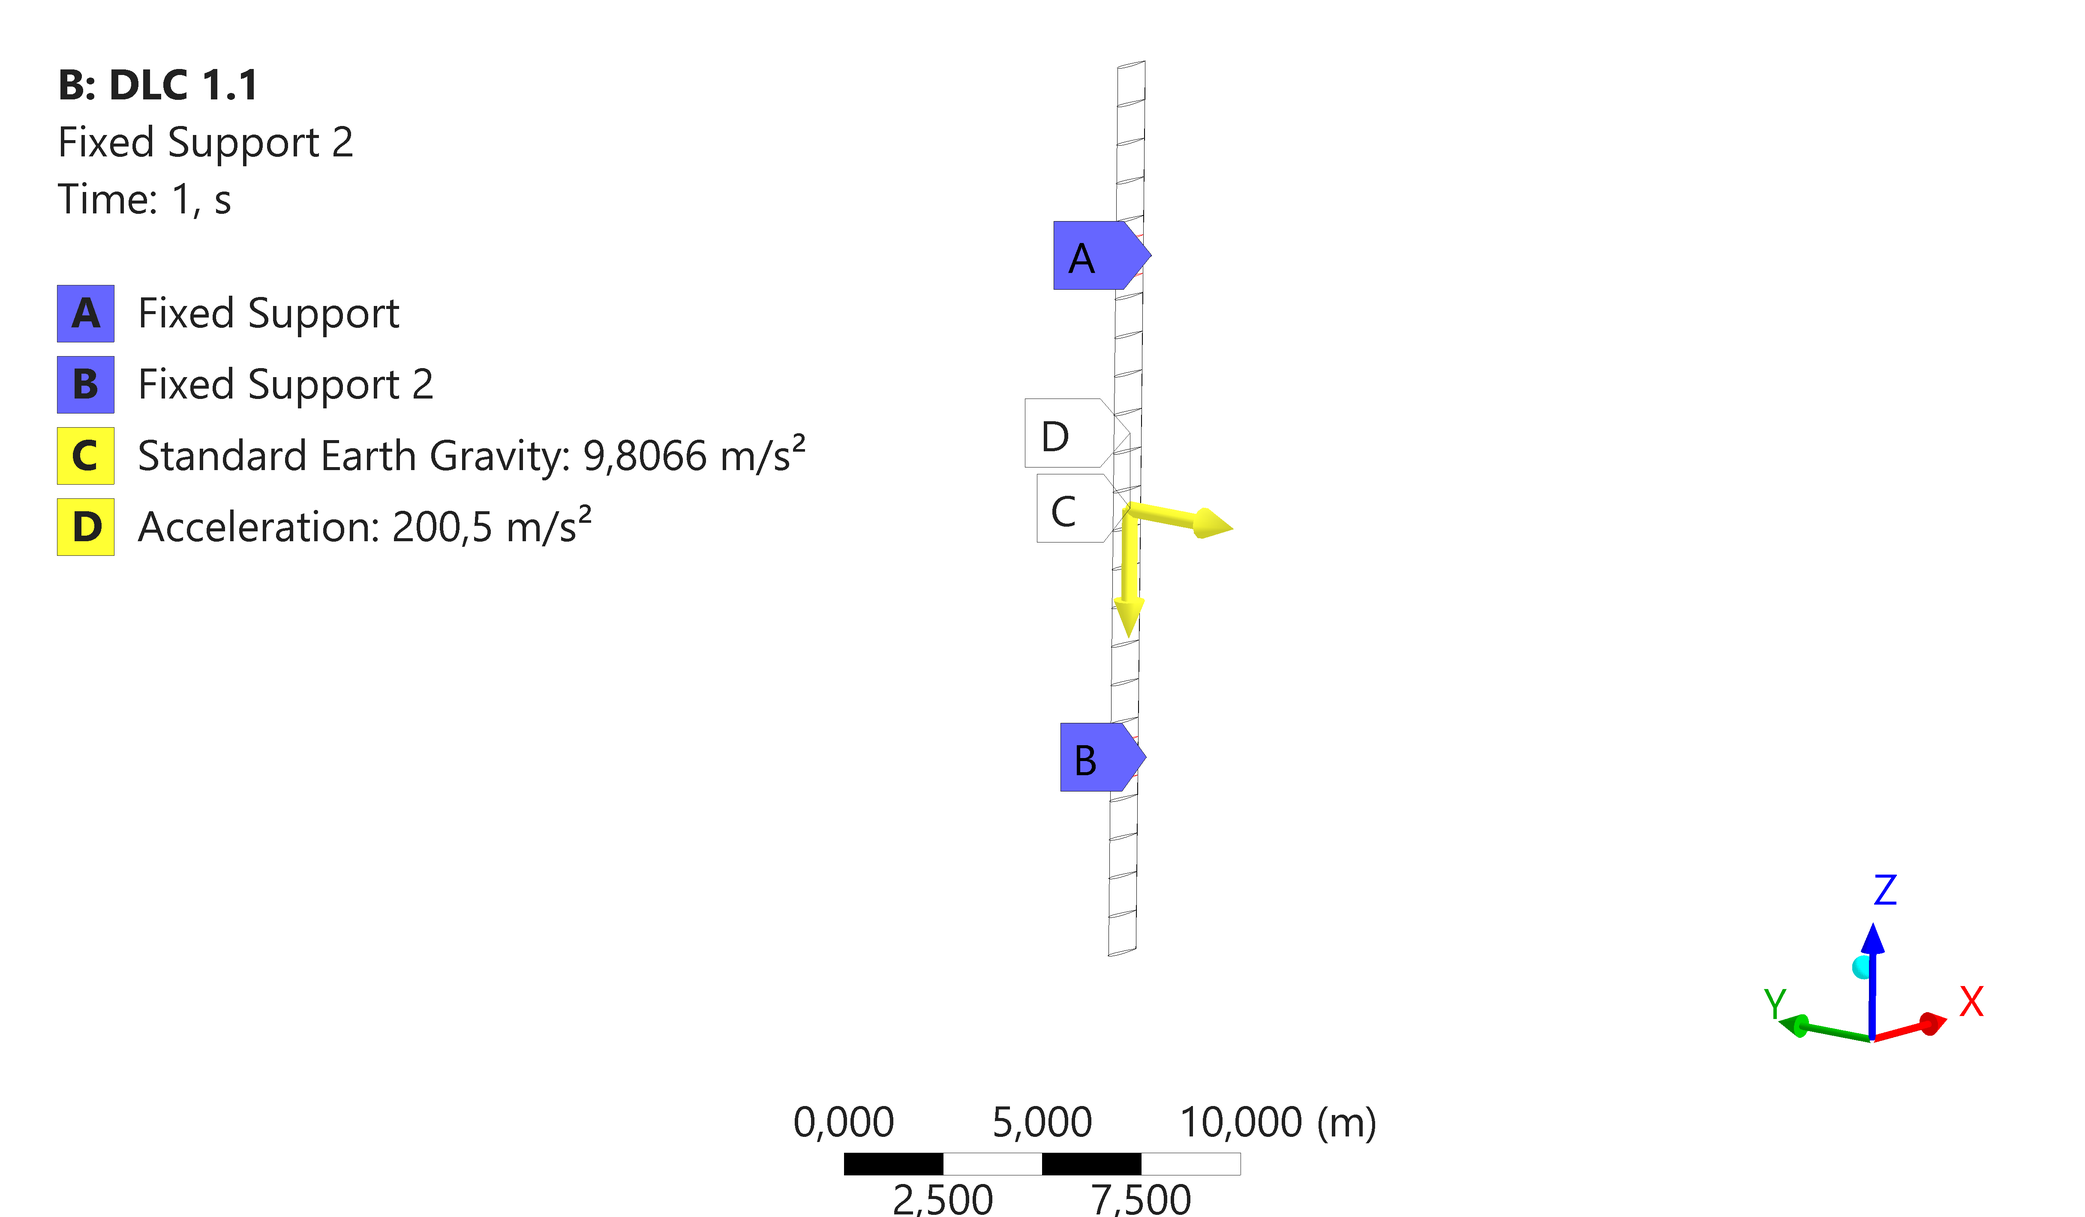
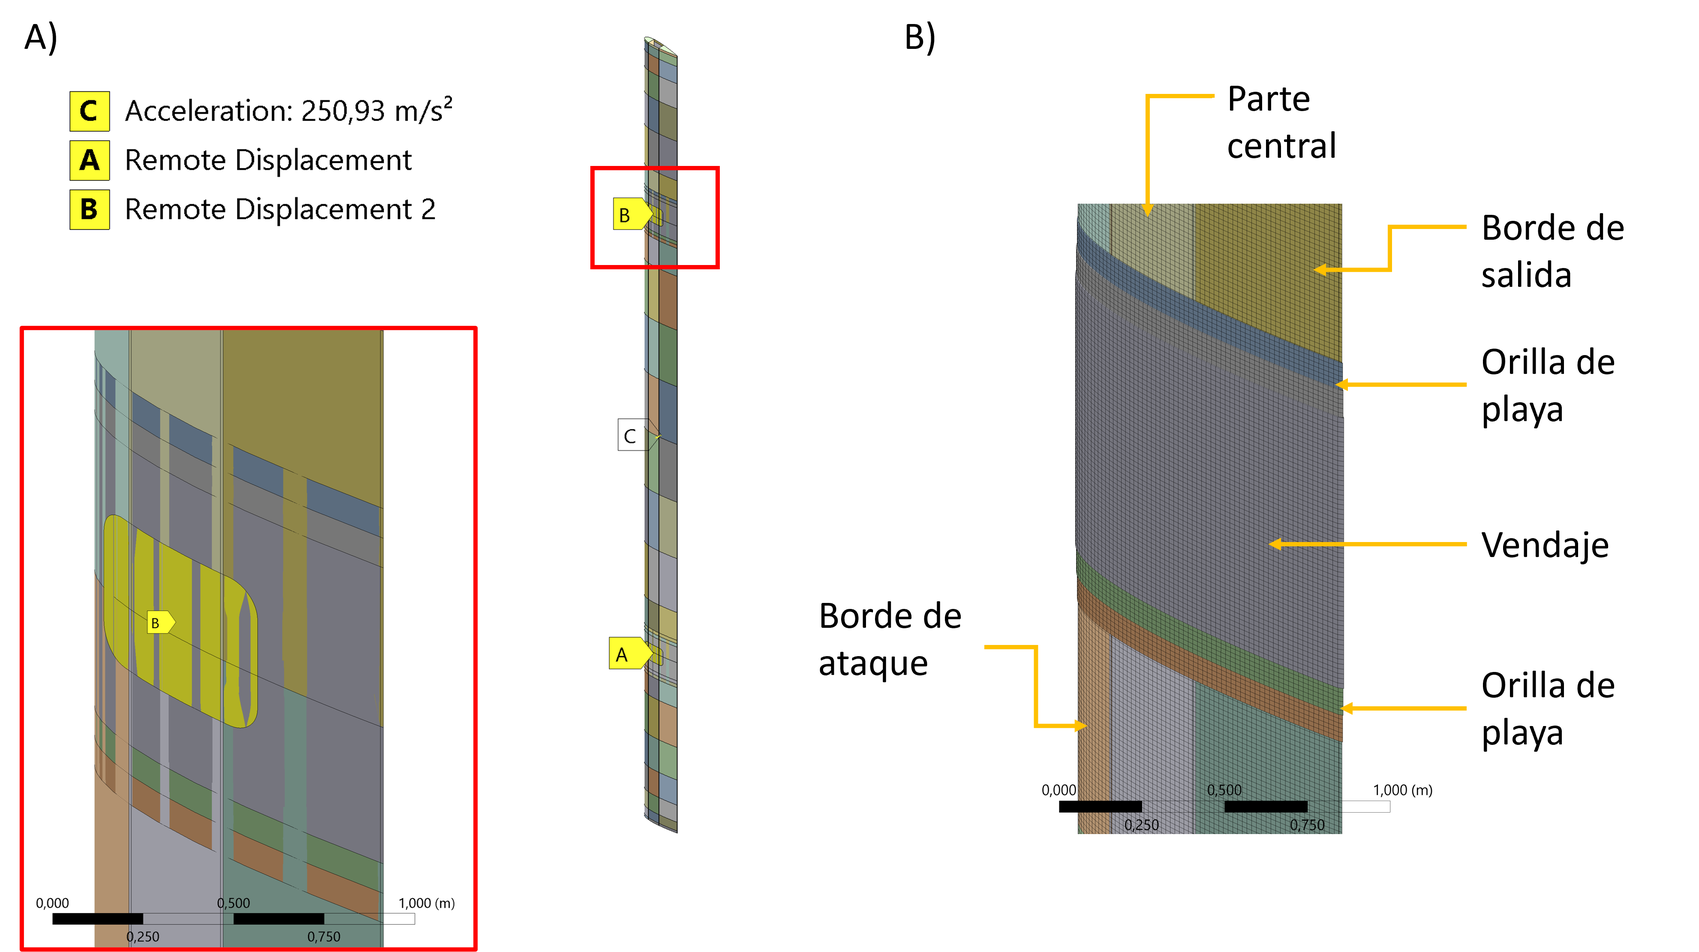
Figuras de condiciones de borde+malla y de sección característica; espesores en tabla
Reemplaza la figura de condiciones de borde por una que muestra además la malla
y las partes del laminado, y retira la figura de fuerzas aerodinámicas, cuyo
contenido queda en texto. Sustituye el plano de la unión por la figura de la
sección característica de la pala, que ilustra las almas, la parte central, los
carenados y el vendaje, y la ubica en la metodología junto a la tabla de
espesores.

Consolida todos los espesores en la Tabla de la sección característica, con las
partes de la sección y los tres tramos del vendaje de refuerzo. Mantiene en el
texto el vendaje de 1 m con los largos y espesores de la orilla de playa, y las
dimensiones 500x600 mm de la placa de apoyo.

Mueve la aclaración de que el contorno es el laminado del manto y de que los
concentradores caen en la terminación del vendaje desde los pies de figura a los
párrafos de análisis, dejando los pies descriptivos.

diff --git a/4 Resultados.tex b/4 Resultados.tex
@@ -735,35 +735,20 @@ La malla definitiva, de $18$~mm de tamaño máximo de cara, comprende $219\,169$
 
 \subsection{Modelo de elementos finitos}
 
-La Figura~\ref{fig:fem_cb} muestra el modelo con las condiciones de borde que define la Sección~\ref{sec:condiciones_borde}, esto es, los desplazamientos remotos que restringen las dos conexiones con los brazos y la aceleración centrífuga aplicada radialmente sobre todos los elementos de la pala.
+La Figura~\ref{fig:fem_cb} presenta el modelo de elementos finitos. El panel (a) muestra las condiciones de borde que define la Sección~\ref{sec:condiciones_borde}, los dos desplazamientos remotos que restringen las conexiones con los brazos, marcados A y B, y la aceleración centrífuga aplicada radialmente sobre toda la masa de la pala, marcada C. El panel (b) amplía la zona de una conexión, donde se aprecian la malla de cascarón y las distintas partes del laminado, el manto, el ala del larguero y las bandas del vendaje de refuerzo con sus escalones.
 
 \begin{figure}[H]
     \centering
     \includegraphics[width=\textwidth]{Figuras/Figuras Resultados/fem_cb.png}
-    \caption{Condiciones de borde del modelo FEM, desplazamientos remotos deformables en los dos puntos de conexión con los struts y aceleración centrífuga radial.}
+    \caption[Modelo de elementos finitos de la pala.]{Modelo de elementos finitos de la pala. (a) Condiciones de borde, desplazamientos remotos deformables en las dos conexiones con los brazos (A y B) y aceleración centrífuga radial (C). (b) Detalle de la malla de cascarón y de las partes del laminado en la zona de una conexión.}
     \label{fig:fem_cb}
 \end{figure}
 
 La aceleración centrífuga corresponde a la velocidad máxima de rotación $\Omega = 42$~rpm ($4{,}398$~rad/s) que, evaluada en la Ec.~\ref{eq:centrifugal_limit} con $R = 10{,}365$~m, resulta en $a_c = 200{,}5$~m/s$^2$ ($20{,}4\,g$), uniforme en toda la envergadura. Esa magnitud sitúa en su justa dimensión la consigna de $42$~rpm. Como la aceleración centrífuga es inversamente proporcional al radio (Ec.~\ref{eq:centrifugal_limit}), el menor radio del rotor en estudio implica una solicitación centrífuga un $29\%$ superior a la de la T1-turbine en su límite de diseño~\parencite{Mollerstrom2017}, pese a que ambas máquinas comparten la misma velocidad de punta. La admisibilidad de la consigna no se sustenta por tanto en la comparación con la literatura, sino en la verificación estructural que se desarrolla en esta sección.
 
-La Figura~\ref{fig:fem_fuerzas} muestra las fuerzas aerodinámicas de diseño $F_d$ aplicadas como cargas remotas en los centroides de las $21$ estaciones, conservando el signo que entrega la simulación (Sección~\ref{sec:anexo_f}). Ese signo es el que obliga a resolver cada caso de carga en sus dos sentidos. En el instante que maximiza la envolvente direccional, la componente normal apunta hacia el eje del rotor y se opone por tanto a la flexión que induce la fuerza centrífuga, de modo que el mayor extremo aerodinámico no coincide con el estado combinado más desfavorable. El segundo perfil de cada caso, tomado del extremo de $M_y$ en el sentido contrario, sí acumula ambas contribuciones, y es la comparación entre ambos la que determina el caso gobernante (Sección~\ref{sec:comparacion_dlc}).
+Las fuerzas aerodinámicas de diseño $F_d$ se aplican como cargas remotas en los centroides de las $21$ estaciones, conservando el signo que entrega la simulación (Sección~\ref{sec:anexo_f}). Ese signo es el que obliga a resolver cada caso de carga en sus dos sentidos. En el instante que maximiza la envolvente direccional, la componente normal apunta hacia el eje del rotor y se opone por tanto a la flexión que induce la fuerza centrífuga, de modo que el mayor extremo aerodinámico no coincide con el estado combinado más desfavorable. El segundo perfil de cada caso, tomado del extremo de $M_y$ en el sentido contrario, sí acumula ambas contribuciones, y es la comparación entre ambos la que determina el caso gobernante (Sección~\ref{sec:comparacion_dlc}).
 
-\begin{figure}[H]
-    \centering
-    \includegraphics[width=\textwidth]{Figuras/Figuras Resultados/fem_fuerzas.png}
-    \caption{Fuerzas aerodinámicas de diseño aplicadas como cargas remotas en las 21 estaciones de la pala.}
-    \label{fig:fem_fuerzas}
-\end{figure}
-
-La Figura~\ref{fig:fem_detalle_union} presenta el detalle constructivo de la unión entre la pala y el brazo de soporte tal como queda resuelta en el modelo. Se distinguen en ella sus tres elementos, el vendaje de refuerzo de la zona de conexión, la superficie de apoyo sobre la que se impone la restricción de cada conexión (Sección~\ref{sec:condiciones_borde}) y el larguero de cajón, formado por las dos almas de $5{,}2$~mm y por el engrosamiento del manto entre ellas (Sección~\ref{sec:seccion_caracteristica}).
-
-
-\begin{figure}[H]
-    \centering
-    \includegraphics[trim=0cm 3cm 0cm 3cm, clip, width=0.85\textwidth]{Figuras/Figuras Resultados/PLANO.pdf}
-    \caption{Detalle de la unión pala-brazo modelada en el FEM.}
-    \label{fig:fem_detalle_union}
-\end{figure}
+La unión entre la pala y el brazo queda resuelta en el modelo mediante tres elementos, el vendaje de refuerzo de la zona de conexión (Sección~\ref{sec:vendaje}), la superficie de $500 \times 600$~mm sobre la que se impone el desplazamiento remoto de cada conexión (Sección~\ref{sec:condiciones_borde}) y el larguero de cajón, formado por las dos almas de $5{,}2$~mm y por el engrosamiento del manto entre ellas (Sección~\ref{sec:seccion_caracteristica}), visibles todos en el detalle de la malla de la Figura~\ref{fig:fem_cb}(b).
 
 \subsection{Resultados del análisis estructural}
 
@@ -771,12 +756,12 @@ Se reportan primero las tensiones y el desplazamiento bajo las cargas del DLC 1.
 
 \subsubsection{Tensiones principales}
 
-La Figura~\ref{fig:fem_max11} presenta la distribución de tensión principal máxima sobre las dos caras de la pala, el intradós y el extradós, con el detalle ampliado de las dos conexiones con los brazos. El valor máximo del manto, $\sigma_{1,\max} = 189{,}40$~MPa, se localiza en la conexión con el brazo superior ($z = 18$~m), unos centímetros más allá del punto en que termina el vendaje de refuerzo. Las dos conexiones se solicitan de forma prácticamente simétrica, con $189{,}40$~MPa en la superior y $178{,}69$~MPa en la inferior, y en ambas el máximo aparece sobre la línea en que el refuerzo termina y el manto queda cargando solo.
+La Figura~\ref{fig:fem_max11} presenta la distribución de tensión principal máxima sobre las dos caras de la pala, el intradós y el extradós, con el detalle ampliado de las dos conexiones con los brazos. El valor máximo del manto, $\sigma_{1,\max} = 189{,}40$~MPa, se localiza en la conexión con el brazo superior ($z = 18$~m), unos centímetros más allá del punto en que termina el vendaje de refuerzo. Las dos conexiones se solicitan de forma prácticamente simétrica, con $189{,}40$~MPa en la superior y $178{,}69$~MPa en la inferior, y en ambas el máximo aparece sobre la línea en que el refuerzo termina y el manto queda cargando solo. El contorno de la figura corresponde al laminado del manto, no al del vendaje de refuerzo, y los concentradores de tensión se ubican precisamente sobre las líneas en que el vendaje termina.
 
 \begin{figure}[H]
     \centering
     \includegraphics[width=\textwidth]{Figuras/Figuras Resultados/fem_max11.png}
-    \caption[Distribución de tensión principal máxima, DLC 1.1.]{Distribución de tensión principal máxima del DLC 1.1 sobre el intradós y el extradós de la pala, en MPa. El contorno corresponde al laminado del manto, no al del vendaje de refuerzo, y los concentradores de tensión se ubican precisamente sobre las líneas en que el vendaje termina. Los detalles A y B amplían las dos conexiones con los brazos.}
+    \caption[Distribución de tensión principal máxima, DLC 1.1.]{Distribución de tensión principal máxima del DLC 1.1 sobre el intradós y el extradós de la pala, en MPa. Los detalles A y B amplían las dos conexiones con los brazos.}
     \label{fig:fem_max11}
 \end{figure}
 
@@ -784,12 +769,12 @@ Conviene precisar el origen de ese valor, porque no corresponde a un concentrado
 
 El análisis de convergencia descarta que ese valor provenga de la discretización, ya que su variación en el último refinamiento es del $3{,}63\%$, por debajo del criterio adoptado. Lo que no permite descartar es su sensibilidad al detalle constructivo de la unión, representada aquí mediante una superficie de apoyo y un vendaje ante la falta de un plano de la conexión (Sección~\ref{sec:condiciones_borde}), ya que un apoyo de mayor superficie o un refuerzo más extenso redistribuirían la tensión en esa zona.
 
-La Figura~\ref{fig:fem_min11} muestra la tensión principal mínima, $\sigma_{3,\min} = -177{,}95$~MPa, correspondiente a compresión. El máximo de compresión se localiza en la misma terminación del refuerzo que el de tracción, pero sobre la cara opuesta de la pala, como corresponde a la flexión que inducen conjuntamente las fuerzas aerodinámicas y la fuerza centrífuga. El sentido relativo en que ambas actúan depende del instante del que proviene el perfil de carga, y es por eso que cada caso se resuelve en sus dos sentidos (Sección~\ref{sec:comparacion_dlc}).
+La Figura~\ref{fig:fem_min11} muestra la tensión principal mínima, $\sigma_{3,\min} = -177{,}95$~MPa, correspondiente a compresión. El contorno corresponde igualmente al laminado del manto, y el máximo de compresión se localiza en la misma terminación del refuerzo que el de tracción, pero sobre la cara opuesta de la pala, como corresponde a la flexión que inducen conjuntamente las fuerzas aerodinámicas y la fuerza centrífuga. El sentido relativo en que ambas actúan depende del instante del que proviene el perfil de carga, y es por eso que cada caso se resuelve en sus dos sentidos (Sección~\ref{sec:comparacion_dlc}).
 
 \begin{figure}[H]
     \centering
     \includegraphics[width=\textwidth]{Figuras/Figuras Resultados/fem_min11.png}
-    \caption[Distribución de tensión principal mínima, DLC 1.1.]{Distribución de tensión principal mínima del DLC 1.1 sobre el intradós y el extradós de la pala, en MPa. El contorno corresponde al laminado del manto, no al del vendaje de refuerzo, y los concentradores de compresión se ubican sobre las líneas en que el vendaje termina, en la cara opuesta a la del máximo de tracción. Los detalles A y B amplían las dos conexiones.}
+    \caption[Distribución de tensión principal mínima, DLC 1.1.]{Distribución de tensión principal mínima del DLC 1.1 sobre el intradós y el extradós de la pala, en MPa. Los detalles A y B amplían las dos conexiones.}
     \label{fig:fem_min11}
 \end{figure}
 

diff --git a/3 Metodología.tex b/3 Metodología.tex
@@ -940,21 +940,34 @@ Las propiedades disponibles del laminado son las de la Tabla~\ref{tab:material_p
 \subsubsection{Sección característica}
 \label{sec:seccion_caracteristica}
 
-La definición del laminado proviene de un plano de sección transversal entregado por el fabricante de la turbina, identificado en él como sección característica de la pala. La sección corresponde a un larguero de cajón, formado por dos almas y por el engrosamiento del manto entre ellas, con carenados de menor espesor hacia el borde de ataque y hacia el de fuga. La Tabla~\ref{tab:seccion_caracteristica} reúne sus dimensiones.
+La definición del laminado proviene de un plano de sección transversal entregado por el fabricante de la turbina, identificado en él como sección característica de la pala. La sección corresponde a un larguero de cajón, formado por dos almas y por el engrosamiento del manto entre ellas, con carenados de menor espesor hacia el borde de ataque y hacia el de fuga, según ilustra la Figura~\ref{fig:seccion_caracteristica}. La Tabla~\ref{tab:seccion_caracteristica} reúne los espesores de todas sus partes y los del vendaje de refuerzo de las conexiones, que se describe más adelante (Sección~\ref{sec:vendaje}).
+
+\begin{figure}[H]
+    \centering
+    \includegraphics[width=0.9\textwidth]{Figuras/Figuras Metodología/seccion_caracteristica.png}
+    \caption[Sección característica de la pala.]{Sección característica de la pala con sus partes, el larguero de cajón de dos almas, la parte central engrosada entre ellas, los carenados de borde de ataque y de fuga, y el vendaje de refuerzo del contorno. El espesor de cada parte se representa en el modelo de cascarón.}
+    \label{fig:seccion_caracteristica}
+\end{figure}
 
 \begin{table}[H]
     \centering
-    \caption{Definición de la sección característica de la pala, según el plano entregado por el fabricante de la turbina.}
+    \caption{Espesores de la sección característica de la pala y del vendaje de refuerzo, según el plano entregado por el fabricante de la turbina.}
     \label{tab:seccion_caracteristica}
     \begin{tabular}{lcc}
         \hline
-        \textbf{Elemento} & \textbf{Posición desde el borde de ataque} & \textbf{Espesor}\\
+        \textbf{Elemento} & \textbf{Posición o longitud} & \textbf{Espesor}\\
         \hline
+        \multicolumn{3}{l}{\textit{Sección (posición en cuerda desde el borde de ataque)}}\\
         Carenado de borde de ataque & $0$ a $220$~mm & $5{,}2$~mm\\
-        Ala del larguero & $220$ a $560$~mm & $11{,}4$~mm\\
+        Parte central, ala del larguero & $220$ a $560$~mm & $11{,}4$~mm\\
         Carenado de borde de fuga & $560$~mm al borde de fuga & $5{,}2$~mm\\
         Alma anterior & $220$~mm & $5{,}2$~mm\\
         Alma posterior & $560$~mm & $5{,}2$~mm\\
+        \hline
+        \multicolumn{3}{l}{\textit{Vendaje de refuerzo (longitud en envergadura, por conexión)}}\\
+        Tramo de espesor pleno & $1\,000$~mm & $8{,}0$~mm\\
+        Primer escalón, cada extremo & $100$~mm & $5{,}3$~mm\\
+        Segundo escalón, cada extremo & $100$~mm & $2{,}6$~mm\\
         \hline
         \multicolumn{3}{l}{\footnotesize El ala del larguero se prolonga algunos centímetros más allá de cada alma.}
     \end{tabular}
@@ -979,7 +992,7 @@ La concordancia no demuestra que el laminado sea constante a lo largo de la enve
 \subsubsection{Refuerzo de la zona de conexión}
 \label{sec:vendaje}
 
-El modelo incorpora en cada conexión un vendaje de refuerzo dispuesto concéntricamente alrededor del perímetro de la sección, que reproduce el engrosamiento local del laminado con que se resuelve la introducción de carga en una unión de este tipo. Su tramo de espesor pleno mide $8$~mm y $1\,000$~mm de longitud, y en cada extremo la transición hacia el manto se resuelve en dos escalones de $100$~mm, de $5{,}3$ y $2{,}6$~mm de espesor, con lo que el refuerzo alcanza $1\,400$~mm de longitud total. La transición reparte así los $8$~mm de espesor a lo largo de $200$~mm. Se modela escalonada y no continua porque el laminado real tampoco lo es, ya que el espesor desciende terminando capas sucesivas.
+El modelo incorpora en cada conexión un vendaje de refuerzo dispuesto concéntricamente alrededor del perímetro de la sección, que reproduce el engrosamiento local del laminado con que se resuelve la introducción de carga en una unión de este tipo. Su tramo de espesor pleno mide $8$~mm y $1\,000$~mm de longitud, y en cada extremo la transición hacia el manto se resuelve en dos escalones de $100$~mm, de $5{,}3$ y $2{,}6$~mm de espesor, con lo que el refuerzo alcanza $1\,400$~mm de longitud total (Tabla~\ref{tab:seccion_caracteristica}). La transición reparte así los $8$~mm de espesor a lo largo de $200$~mm. Se modela escalonada y no continua porque el laminado real tampoco lo es, ya que el espesor desciende terminando capas sucesivas.
 
 El vendaje se representa como un cuerpo independiente del manto, con el que comparte los nodos de su superficie de contacto. Esa separación permite leer sus tensiones por separado, lo que una representación del conjunto como un espesor único no permitiría.
 

diff --git a/1 Introduccion.tex b/1 Introduccion.tex
@@ -41,4 +41,4 @@ Las condiciones ambientales se definen a partir de datos del explorador eólico~
 
 \section{Estructura del documento}
 
-El presente documento se organiza en cinco capítulos. El Capítulo 2 presenta los antecedentes generales: el estado del arte de la energía eólica offshore, las configuraciones de aerogeneradores de eje vertical, el marco normativo IEC 61400-1, la caracterización del recurso eólico, los métodos de simulación aerodinámica basados en vórtices libres, el cálculo de polares aerodinámicas y el análisis estructural por elementos finitos. El Capítulo 3 describe la metodología desarrollada, detallando la caracterización del recurso eólico, el cálculo de cargas aerodinámicas mediante el software utilizado y la configuración del modelo estructural en Ansys. El Capítulo 4 presenta los resultados obtenidos: la caracterización del recurso eólico y de las propiedades del aire, el análisis del rango operacional de Reynolds, la caracterización aerodinámica, el TSR óptimo, la curva de potencia de la turbina, las cargas aerodinámicas para los tres casos de diseño (DLC 1.1 para ULS con NTM, DLC 1.2 para fatiga y DLC 1.3 para ULS con ETM), la comparación de fuerzas por estación, la verificación estructural por elementos finitos (incluyendo convergencia de malla, tensiones principales y deformaciones para ambos DLC de estado límite último), y los resúmenes de la verificación a resistencia última, estabilidad y fatiga conforme a IEC 61400-1. El Capítulo 5 presenta las conclusiones del trabajo en relación con los objetivos planteados, las limitaciones del alcance y las líneas de trabajo futuro. Los anexos recogen el material que permite reproducir el trabajo. El Anexo~\ref{anexo:fuerzas} entrega la solicitación de entrada completa de las tres corridas del modelo estructural, con las aceleraciones inerciales y las fuerzas por estación. Los Anexos~\ref{anexo:dlc11},~\ref{anexo:dlc13} y~\ref{anexo:dlc12} reproducen el código que determina las cargas de diseño de cada caso, y el Anexo~\ref{anexo:qblade} los archivos de definición con que se resolvieron las simulaciones aerodinámicas.
+El presente documento se organiza en cinco capítulos. El Capítulo 2 presenta los antecedentes generales: el estado del arte de la energía eólica offshore, las configuraciones de aerogeneradores de eje vertical, el marco normativo IEC 61400-1, la caracterización del recurso eólico, los métodos de simulación aerodinámica basados en vórtices libres, el cálculo de polares aerodinámicas y el análisis estructural por elementos finitos. El Capítulo 3 describe la metodología desarrollada, detallando la caracterización del recurso eólico, el cálculo de cargas aerodinámicas mediante el software utilizado y la configuración del modelo estructural en Ansys. El Capítulo 4 presenta los resultados obtenidos: la caracterización del recurso eólico y de las propiedades del aire, el análisis del rango operacional de Reynolds, la caracterización aerodinámica, el TSR óptimo, la curva de potencia de la turbina, las cargas aerodinámicas para los tres casos de diseño (DLC 1.1 para ULS con NTM, DLC 1.2 para fatiga y DLC 1.3 para ULS con ETM), la comparación de fuerzas por estación, la verificación estructural por elementos finitos (incluyendo convergencia de malla, tensiones principales y desplazamientos para ambos DLC de estado límite último), y los resúmenes de la verificación a resistencia última, estabilidad y fatiga conforme a IEC 61400-1. El Capítulo 5 presenta las conclusiones del trabajo en relación con los objetivos planteados, las limitaciones del alcance y las líneas de trabajo futuro. Los anexos recogen el material que permite reproducir el trabajo. El Anexo~\ref{anexo:fuerzas} entrega la solicitación de entrada completa de las tres corridas del modelo estructural, con las aceleraciones inerciales y las fuerzas por estación. Los Anexos~\ref{anexo:dlc11},~\ref{anexo:dlc13} y~\ref{anexo:dlc12} reproducen el código que determina las cargas de diseño de cada caso, y el Anexo~\ref{anexo:qblade} los archivos de definición con que se resolvieron las simulaciones aerodinámicas.
